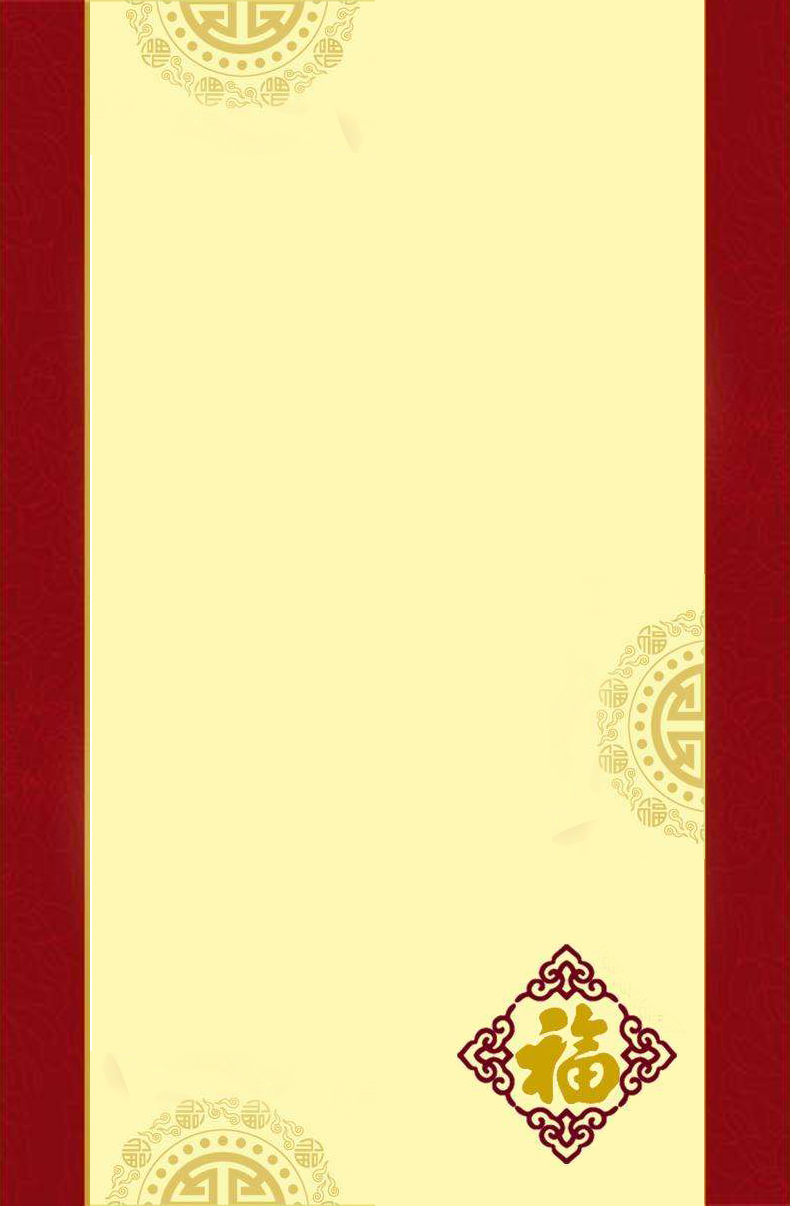
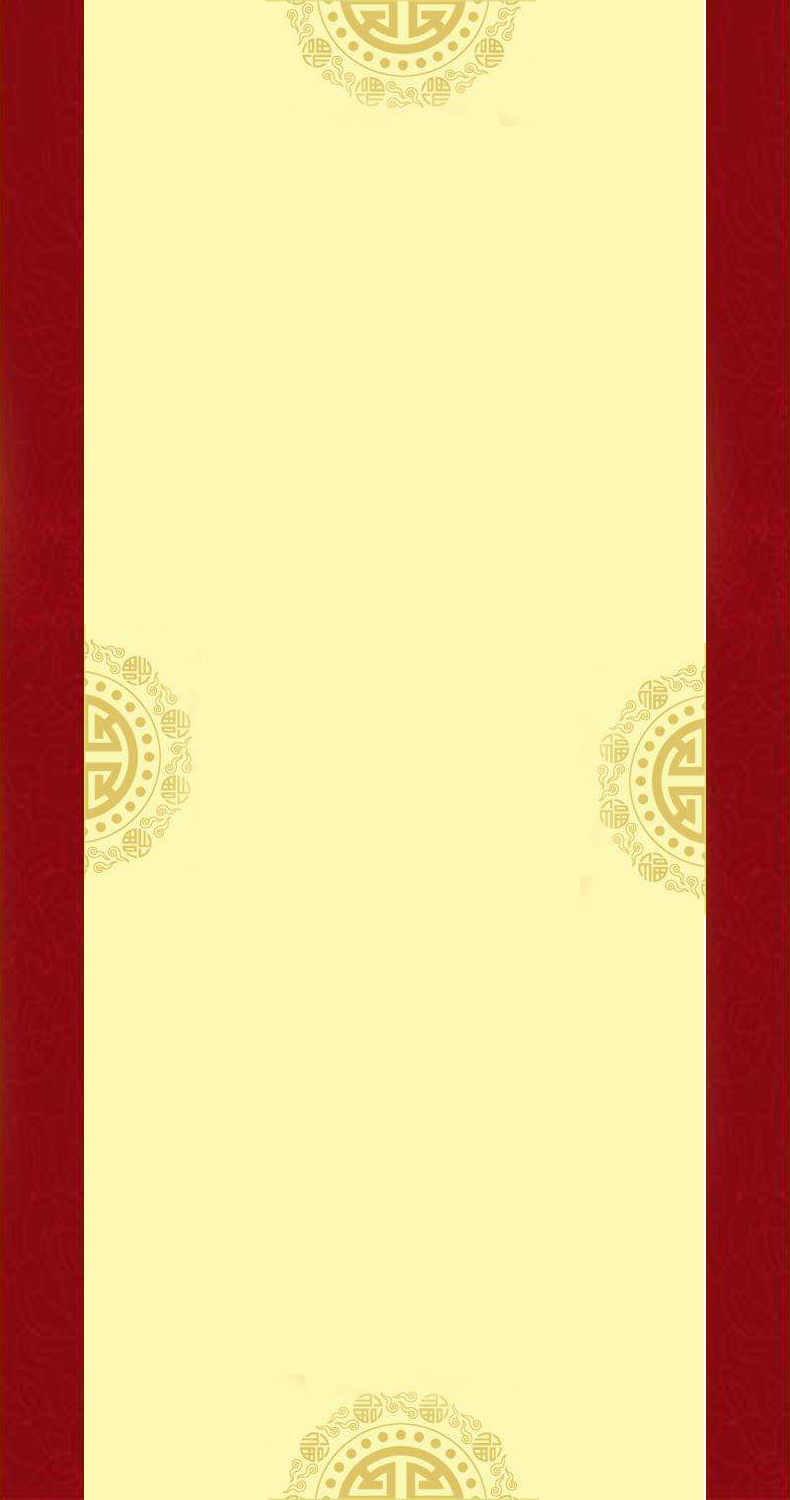
修改

diff --git a/shuangxuanhui/css/style.css b/shuangxuanhui/css/style.css
@@ -47,6 +47,7 @@ body {
 }
 .s1,.s2,.s3,.s4,.s5,.s6,.s7{
     background-image: url(../img/bj.png);
+    background-size:contain;
     position: relative;
     height: 100%;
 }
